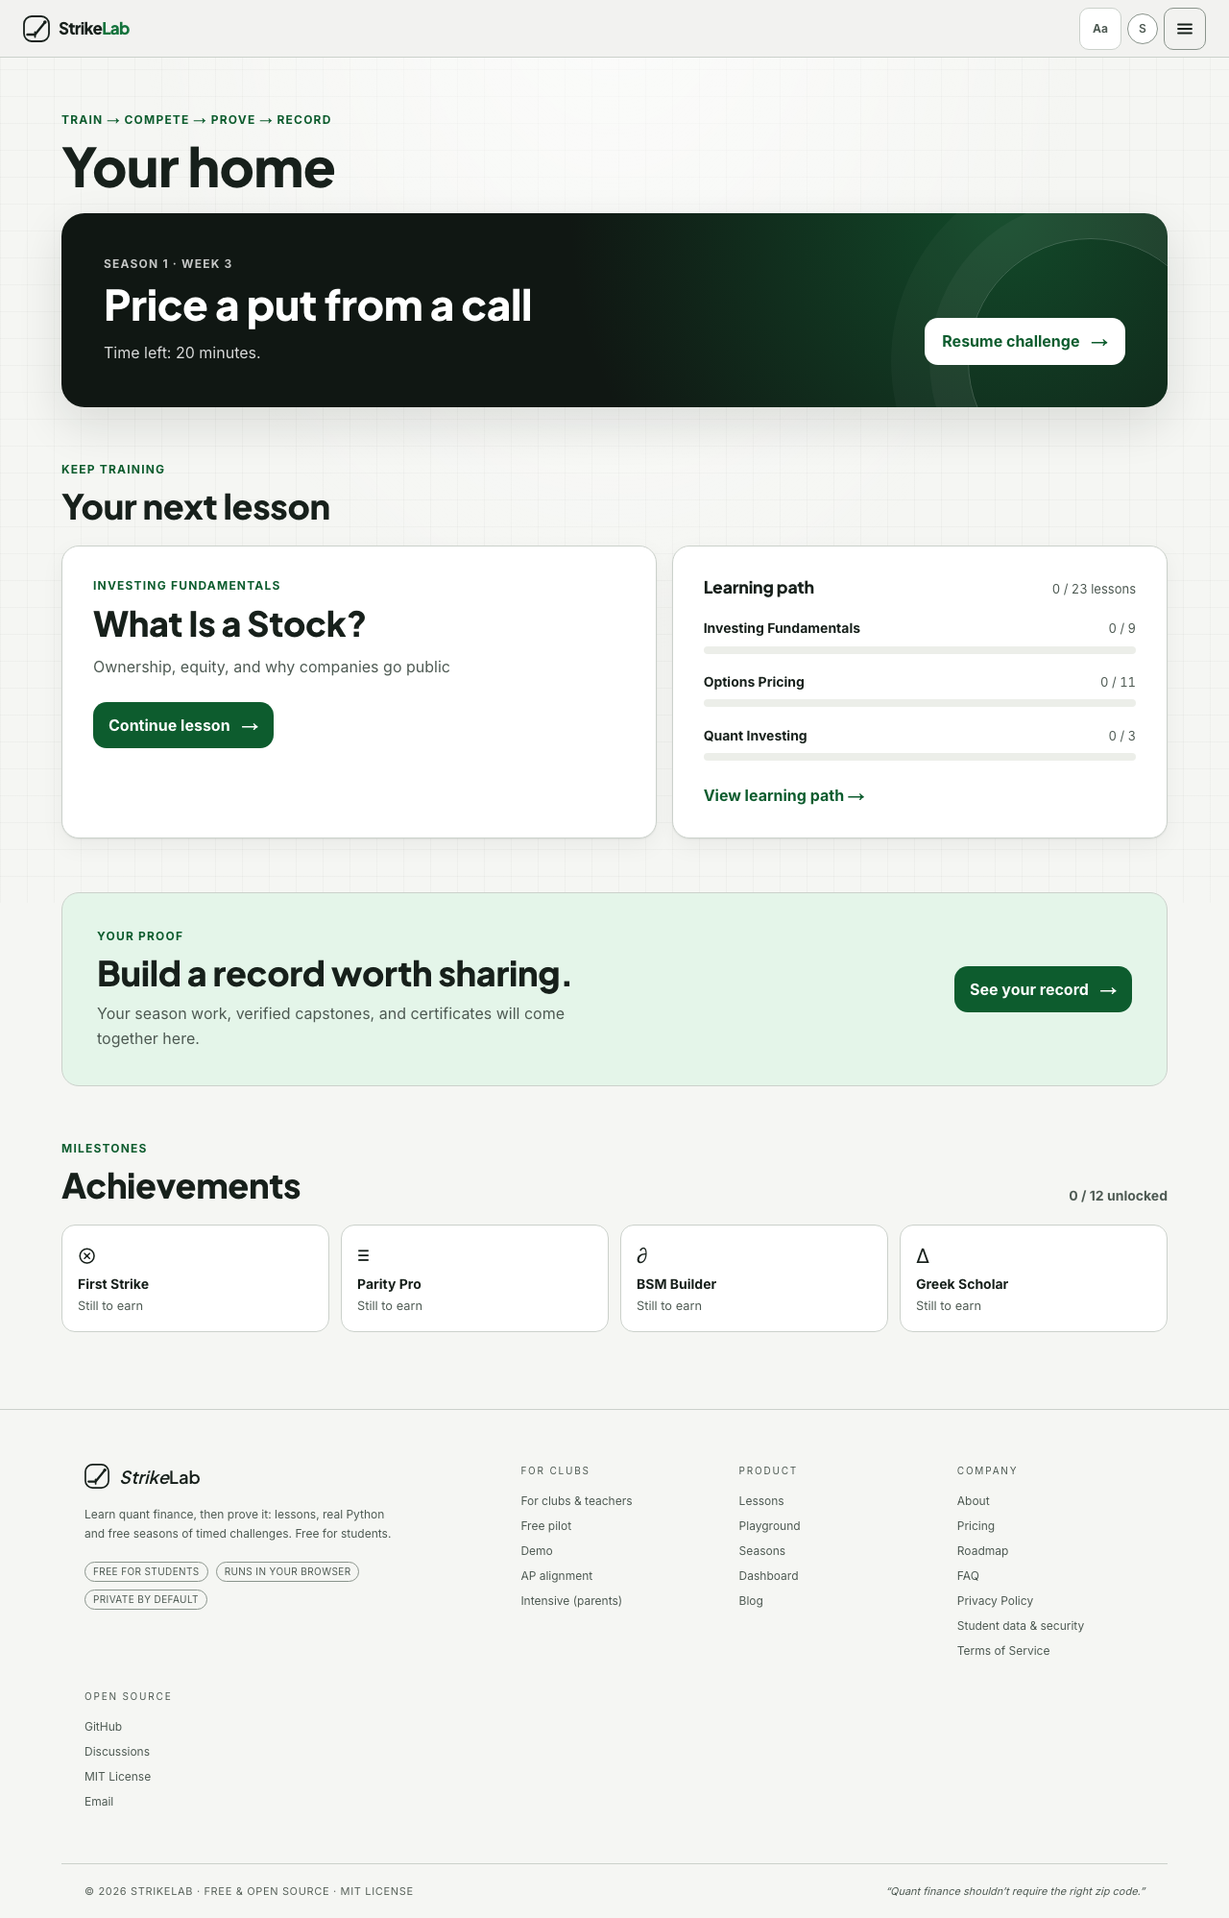
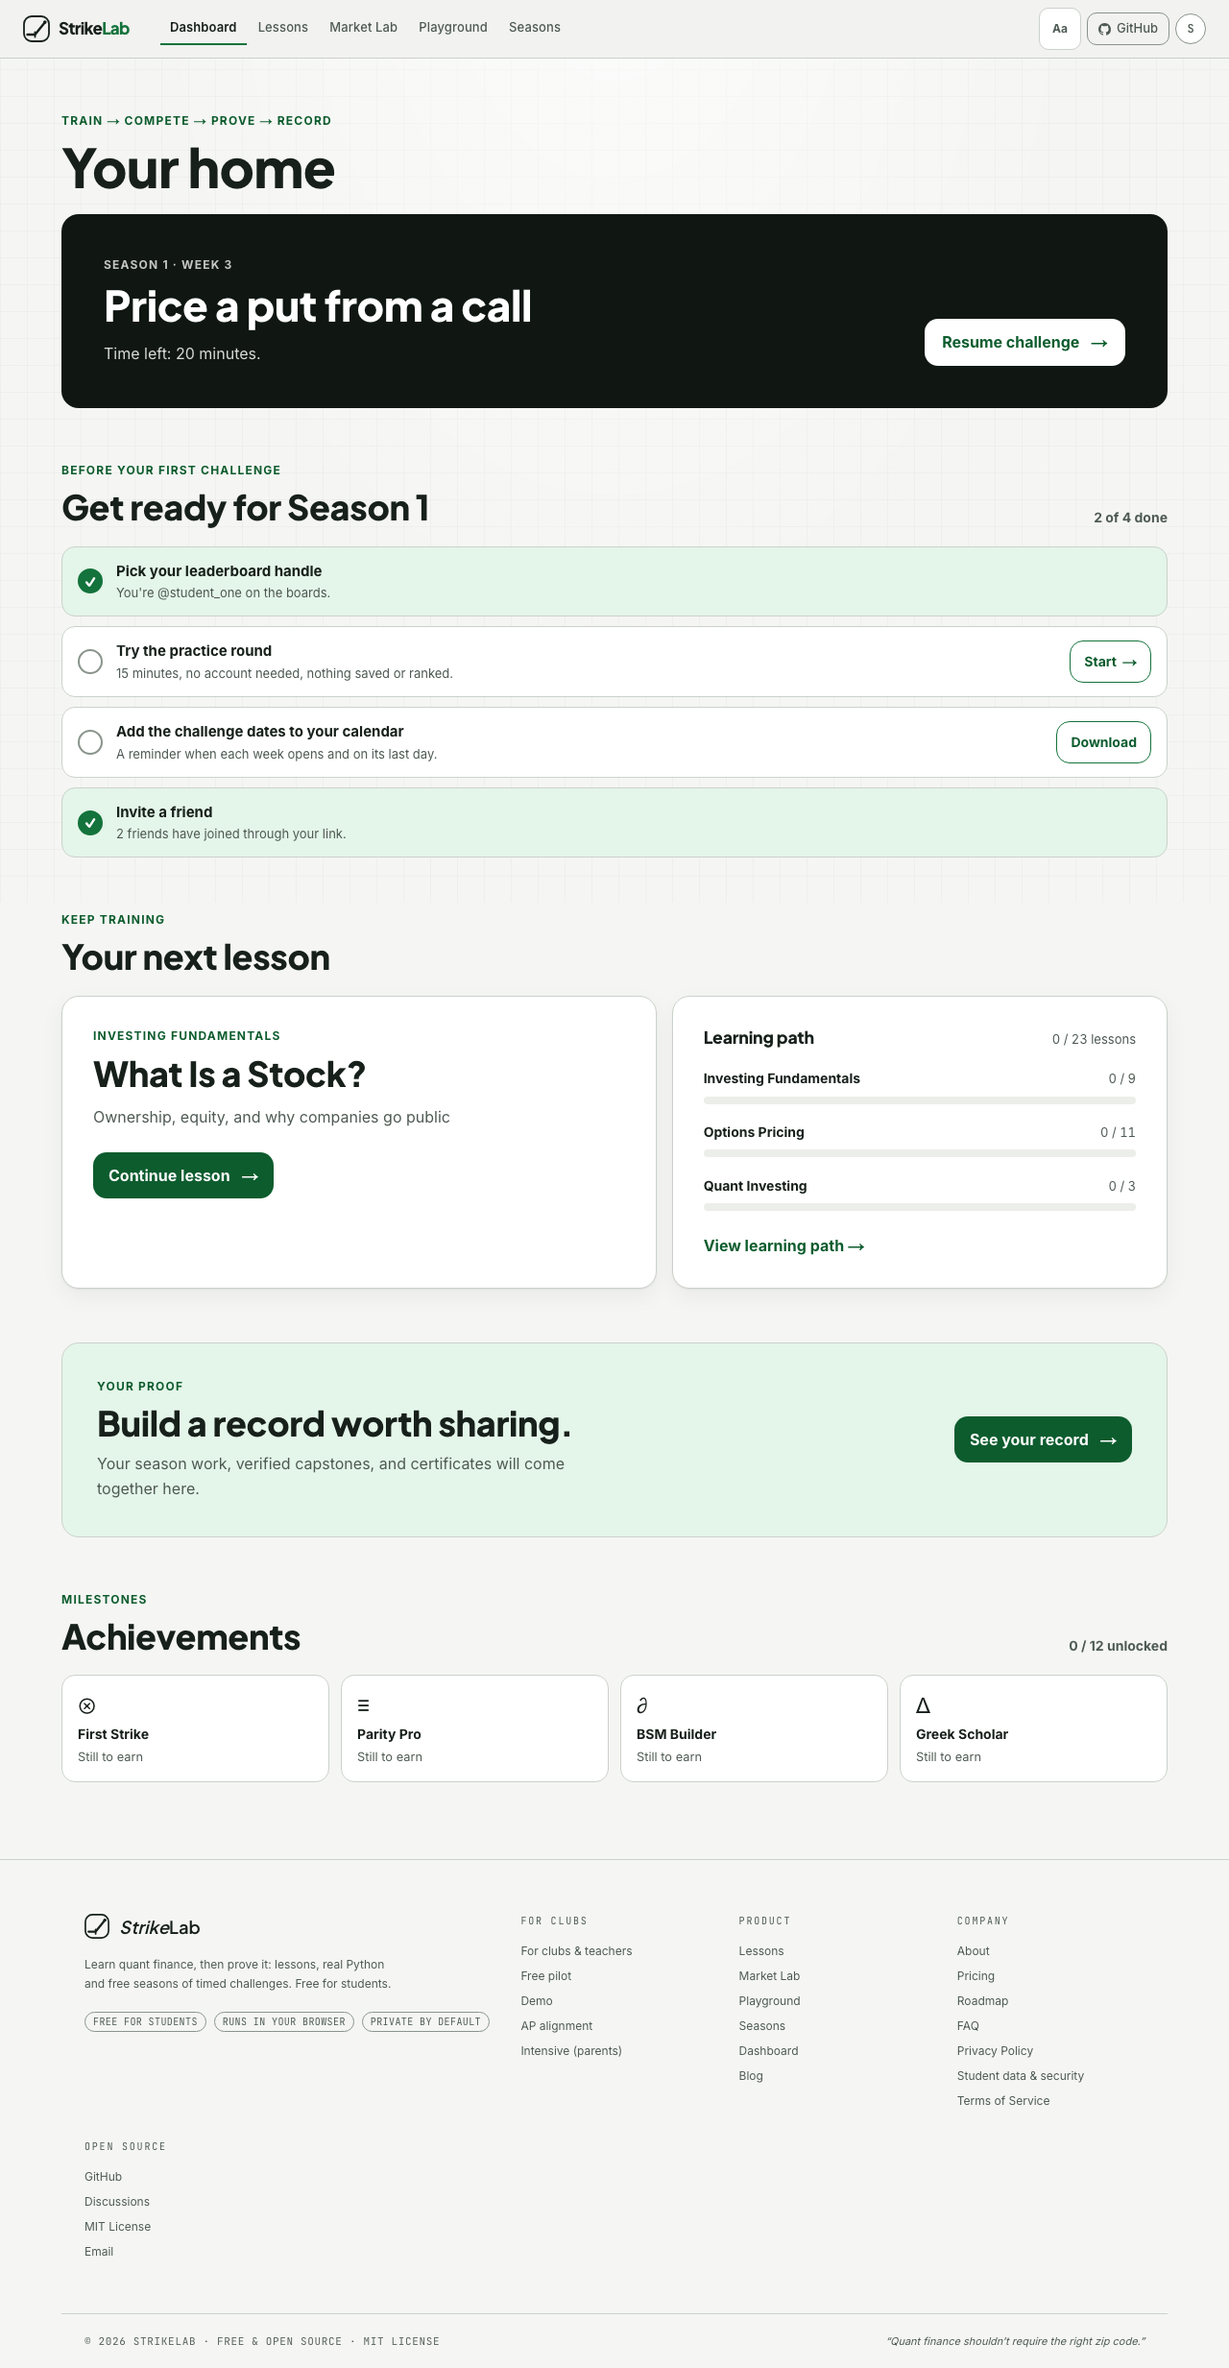
feat(seasons,ui): season FAQ, working mono font, flatter dashboard cards
- /seasons gets an 11-question FAQ (native <details>, works without JS)
  with FAQPage structured data. Each answer is a rule the code enforces:
  one attempt, server clock capped at the week's close, ranking by season
  total, tutor off during an attempt, explanation read by a person.
- Fix: globals.css redefined --font-mono as var(--font-mono, ...), a
  cycle that blanked it, so every var(--sl-font-code) label rendered in
  Inter. A unit test keeps the redefinition out.
- Student-home season card: flat dark block, no radial glow, rings or
  large shadow. Signed-out dashboard: neutral quick-action tiles, brand
  outline for unlocked achievements instead of an amber glow, flat
  "Up next" card. Pricing accent card drops its extra drop shadow.
- Plans updated: design-polish rows 1-3 and 7 done, rows 8-9 shipped in
  #83; remodel plan marks the season FAQ done.

diff --git a/src/lib/seasons/faq.ts b/src/lib/seasons/faq.ts
@@ -1,0 +1,57 @@
+/**
+ * Questions on /seasons. Every answer is a rule the code enforces, so check the
+ * source named beside it before changing the wording:
+ * - one attempt, server clock, deadline capped at the week's close:
+ *   start_attempt / submit_attempt in supabase/migrations/0024_seasons.sql
+ * - ranking by season total, then challenges solved: season_leaderboard (0024)
+ * - scoring: scripts/seasons/score-core.mjs (explanation is read by a person,
+ *   not added to the automatic score, so no points total is promised here)
+ * - what's allowed during an attempt: RULES in seasons/[challengeId]/AttemptClient.tsx
+ * - age: privacy page "Age"; cheating answer: docs/gtm/season-1-outreach.md
+ */
+export const SEASON_FAQ: { q: string; a: string }[] = [
+  {
+    q: "Is it free, and who can play?",
+    a: "Seasons are free. Anyone 13 or older can make an account and play. It's built for high school students, alone or with a club.",
+  },
+  {
+    q: "Do I need to know finance or Python already?",
+    a: "Some Python helps. Each challenge links the free lesson that teaches what it uses, and the 15-minute practice round shows you the format first.",
+  },
+  {
+    q: "When can I take each challenge, and how long do I get?",
+    a: "Each challenge stays open for its week. When you press start you get the time shown on its card. The clock runs on StrikeLab's server and doesn't pause, and it also stops when the week closes, so start with time to spare.",
+  },
+  {
+    q: "What can I use during a challenge?",
+    a: "Your own notes and the lessons. The AI tutor is off from the moment you start until you submit.",
+  },
+  {
+    q: "How many tries do I get?",
+    a: "One attempt per challenge. You can run your code against the sample check as often as you like, then submit once.",
+  },
+  {
+    q: "What if my browser crashes or I close the tab?",
+    a: "Your code saves on your device as you type, so reopening the challenge on the same device brings it back. The clock keeps running while you're away.",
+  },
+  {
+    q: "How is it scored?",
+    a: "After you submit, StrikeLab runs your code against hidden tests on your numbers. Correct answers count most, and finishing with time left adds a little. A person reads your explanation. Scores usually post within a day.",
+  },
+  {
+    q: "What if I miss a week?",
+    a: "You can still play the other weeks. The leaderboard ranks your total across the season, so a missed week counts as zero rather than knocking you out.",
+  },
+  {
+    q: "Does the practice round count?",
+    a: "No. It's a separate problem with its own numbers, checked in your browser and never saved or ranked.",
+  },
+  {
+    q: "Who sees my name?",
+    a: "Nobody. Leaderboards show the handle you choose, never your real name. Your record stays private until you decide to share it, and you can delete your account at any time.",
+  },
+  {
+    q: "Can people cheat?",
+    a: "Not easily. Everyone gets their own numbers, the server keeps the time, the AI tutor is off, and top placings are confirmed in a short live conversation before they appear on a record. That makes cheating hard, not impossible.",
+  },
+];

diff --git a/src/app/globals.css b/src/app/globals.css
@@ -93,7 +93,9 @@
 
   --font-sans:  var(--font-sans, system-ui, sans-serif);
   --font-serif: var(--font-serif, Georgia, serif);
-  --font-mono:  var(--font-mono, "Courier New", monospace);
+  /* No --font-mono here: next/font sets it on <html> (layout.tsx). Redefining
+     it as var(--font-mono, ...) is a cycle, which blanks it, and every
+     var(--sl-font-code) label then fell back to Inter. */
 }
 
 /* Marquee ticker */
@@ -2406,7 +2408,7 @@ h1, h2, h3, h4 {
 
 /* Featured next lesson */
 .db-feat {
-  background: linear-gradient(140deg, var(--card) 0%, var(--card2) 100%);
+  background: var(--card);
   border: 1px solid var(--line);
   border-radius: var(--r-xl);
   padding: 28px;
@@ -2415,15 +2417,6 @@ h1, h2, h3, h4 {
   box-shadow: 0 1px 2px rgba(28,25,23,0.05);
   position: relative;
   overflow: hidden;
-}
-.db-feat::before {
-  content: "";
-  position: absolute;
-  top: -50px; right: -50px;
-  width: 180px; height: 180px;
-  border-radius: 50%;
-  background: radial-gradient(circle, rgba(34,197,94,0.07), transparent);
-  pointer-events: none;
 }
 .db-feat-label {
   font-family: var(--font-mono);
@@ -2498,10 +2491,12 @@ h1, h2, h3, h4 {
 .db-action:hover { transform: translateY(-2px); box-shadow: 0 8px 20px -10px rgba(40,30,10,.22); }
 .db-action-icon {
   width: 44px; height: 44px;
-  border-radius: var(--r-md);
+  border-radius: var(--sl-radius-sm);
   display: grid; place-items: center;
-  font-family: var(--font-display), Georgia, serif;
-  font-size: 20px;
+  /* One neutral tile, not three tinted ones (design polish plan, row 2). */
+  border: 1px solid var(--sl-border);
+  color: var(--sl-brand-strong);
+  font: 500 20px/1 var(--sl-font-code);
   flex-shrink: 0;
 }
 .db-action-copy { flex: 1; }
@@ -2535,17 +2530,8 @@ h1, h2, h3, h4 {
   transition: all .2s;
   overflow: hidden;
 }
-.db-ach.unlocked {
-  border-color: rgba(251,191,36,0.4);
-  background: rgba(251,191,36,0.03);
-  box-shadow: 0 0 24px -8px rgba(251,191,36,0.25);
-}
-.db-ach-glow {
-  position: absolute;
-  inset: 0;
-  background: radial-gradient(circle at 50% 30%, rgba(251,191,36,0.08), transparent 70%);
-  pointer-events: none;
-}
+/* Unlocked reads as a crisp brand outline, not an amber glow (design polish plan, row 2). */
+.db-ach.unlocked { border-color: var(--sl-brand); }
 .db-ach-icon {
   font-size: 30px;
   line-height: 1;
@@ -2570,13 +2556,8 @@ h1, h2, h3, h4 {
 .db-ach-check {
   position: absolute;
   top: 10px; right: 10px;
-  width: 18px; height: 18px;
-  background: rgba(251,191,36,0.2);
-  border-radius: 50%;
-  display: grid; place-items: center;
-  font-size: 9px;
-  color: #f59e0b;
-  font-weight: 700;
+  font: 700 12px/1 var(--sl-font-code);
+  color: var(--sl-brand);
 }
 
 /* ── Class roster (dashboard/class/[id]) ── */

diff --git a/src/app/dashboard/DashboardClient.tsx b/src/app/dashboard/DashboardClient.tsx
@@ -437,12 +437,12 @@ export default function DashboardClient() {
         {/* Quick actions */}
         <div className="db-actions">
           {[
-            { href: "/lessons",    glyph: "≡", title: "Learning path",    sub: "Duolingo-style path view",  ic: "var(--grass)",   bg: "var(--grass-tint)" },
-            { href: "/playground", glyph: "∂", title: "Playground",       sub: "Live Black-Scholes sandbox", ic: "var(--sky)",     bg: "var(--sky-tint)" },
-            { href: "/roadmap",    glyph: "→", title: "Roadmap",          sub: "What's shipping next",       ic: "var(--coral)",   bg: "var(--coral-tint)" },
+            { href: "/lessons",    glyph: "≡", title: "Learning path",    sub: "Duolingo-style path view" },
+            { href: "/playground", glyph: "∂", title: "Playground",       sub: "Live Black-Scholes sandbox" },
+            { href: "/roadmap",    glyph: "→", title: "Roadmap",          sub: "What's shipping next" },
           ].map(q => (
             <Link key={q.href} href={q.href} className="db-action">
-              <span className="db-action-icon" style={{ background: q.bg, color: q.ic }}>{q.glyph}</span>
+              <span className="db-action-icon" aria-hidden="true">{q.glyph}</span>
               <div className="db-action-copy">
                 <div className="db-action-t">{q.title}</div>
                 <div className="db-action-s">{q.sub}</div>
@@ -463,7 +463,6 @@ export default function DashboardClient() {
           const unlocked = hydrated && isUnlocked(a, completed);
           return (
             <div key={a.id} className={`db-ach ${unlocked ? "unlocked" : ""}`} title={a.desc}>
-              {unlocked && <div className="db-ach-glow" />}
               <div className="db-ach-icon">{a.icon}</div>
               <div className="db-ach-name">{a.name}</div>
               <div className="db-ach-desc">{a.desc}</div>

diff --git a/src/app/seasons/page.tsx b/src/app/seasons/page.tsx
@@ -1,4 +1,7 @@
 import Link from "next/link";
+import Faq from "@/components/marketing/Faq";
+import JsonLd from "@/components/JsonLd";
+import { SEASON_FAQ } from "@/lib/seasons/faq";
 import styles from "@/components/marketing/marketing.module.css";
 import { pageMetadata } from "@/lib/seo";
 import { getSupabaseServer } from "@/lib/supabase/server";
@@ -25,6 +28,16 @@ export const metadata = pageMetadata({
 });
 
 export const dynamic = "force-dynamic";
+
+const FAQ_JSON_LD = {
+  "@context": "https://schema.org",
+  "@type": "FAQPage",
+  mainEntity: SEASON_FAQ.map((item) => ({
+    "@type": "Question",
+    name: item.q,
+    acceptedAnswer: { "@type": "Answer", text: item.a },
+  })),
+};
 
 interface SeasonRow { id: string; title: string; starts_on: string; ends_on: string }
 interface ChallengeRow { id: string; week: number; template_slug: string; opens_at: string; closes_at: string; time_limit_minutes: number }
@@ -105,6 +118,7 @@ export default async function SeasonsPage({ searchParams }: { searchParams: Prom
 
   return (
     <div className={styles.page}>
+      <JsonLd data={FAQ_JSON_LD} />
       <section className={styles.section}>
         <div className={styles.wrap}>
           {inviter && <p className={inviteStyles.banner}>@{inviter} invited you to play</p>}
@@ -252,6 +266,16 @@ export default async function SeasonsPage({ searchParams }: { searchParams: Prom
           </div>
         </section>
       )}
+
+      <section className={styles.section} aria-labelledby="season-faq">
+        <div className={styles.narrow}>
+          <h2 id="season-faq" className={styles.h2}>Questions</h2>
+          <Faq items={SEASON_FAQ} />
+          <p className={styles.fine}>
+            More about StrikeLab itself is in the <Link href="/faq" className={styles.textLink}>full FAQ</Link>.
+          </p>
+        </div>
+      </section>
     </div>
   );
 }

diff --git a/tests/season-workspace.spec.ts b/tests/season-workspace.spec.ts
@@ -174,3 +174,19 @@ test("the seasons page leads with the practice round and the opening", async ({ 
   await expect(page.getByRole("main").getByRole("link", { name: "Try a practice round" })).toHaveAttribute("href", "/seasons/practice");
   await expect(page.getByText(/Opens in \d+ days? ·|Live now|Season ended/)).toBeVisible();
 });
+
+test("the seasons page answers the common questions, without JavaScript too", async ({ browser }) => {
+  // The FAQ is native <details>, so it must open with scripts off.
+  const context = await browser.newContext({ javaScriptEnabled: false });
+  const page = await context.newPage();
+  await page.goto("/seasons");
+  const faq = page.getByRole("region", { name: "Questions" });
+  await expect(faq.getByText("How many tries do I get?")).toBeVisible();
+  // Keyboard, not click: with scripts off Playwright's click never sees the
+  // element as "stable". Enter on a <summary> is also the keyboard path.
+  await faq.getByText("How many tries do I get?").press("Enter");
+  await expect(faq.getByText(/One attempt per challenge/)).toBeVisible();
+  const ld = await page.locator('script[type="application/ld+json"]').allTextContents();
+  expect(ld.some((json) => json.includes('"FAQPage"') && json.includes("What if I miss a week?"))).toBe(true);
+  await context.close();
+});

diff --git a/src/app/dashboard/studentHome.module.css b/src/app/dashboard/studentHome.module.css
@@ -24,22 +24,10 @@
   gap: 2rem;
   overflow: hidden;
   padding: clamp(1.5rem, 4vw, 2.75rem);
-  background: radial-gradient(circle at 85% 0%, color-mix(in srgb, var(--sl-brand) 55%, transparent), transparent 45%), var(--sl-surface-inverse);
-  border-radius: var(--sl-radius-xl);
-  box-shadow: var(--sl-shadow-2);
+  /* Flat block, no glow or decorative rings (design polish plan, row 1). */
+  background: var(--sl-surface-inverse);
+  border-radius: var(--sl-radius-lg);
   color: var(--sl-surface);
-}
-.season::after {
-  content: "";
-  position: absolute;
-  right: -3rem;
-  bottom: -5rem;
-  width: 16rem;
-  aspect-ratio: 1;
-  border: 1px solid color-mix(in srgb, var(--sl-surface) 20%, transparent);
-  border-radius: 50%;
-  box-shadow: 0 0 0 2.5rem color-mix(in srgb, var(--sl-surface) 4%, transparent), 0 0 0 5rem color-mix(in srgb, var(--sl-surface) 3%, transparent);
-  pointer-events: none;
 }
 .seasonCopy, .seasonAction { position: relative; z-index: 1; }
 .seasonEyebrow { color: color-mix(in srgb, var(--sl-surface) 76%, transparent); }

diff --git a/src/lib/ui/fontVariables.test.ts b/src/lib/ui/fontVariables.test.ts
@@ -1,0 +1,15 @@
+import { readFileSync } from "node:fs";
+import { describe, expect, it } from "vitest";
+
+// next/font sets --font-mono on <html> (src/app/layout.tsx). A stylesheet that
+// redefines it as var(--font-mono, ...) creates a cycle, which the browser
+// resolves to nothing: every mono label (var(--sl-font-code)) then silently
+// rendered in Inter. Keep the self-hosted font the only definition.
+const sheets = ["../../app/globals.css", "../../styles/tokens.css", "../../styles/foundation.css"];
+
+describe("font variables", () => {
+  it.each(sheets)("%s does not redefine --font-mono", (path) => {
+    const css = readFileSync(new URL(path, import.meta.url), "utf8");
+    expect(css).not.toMatch(/--font-mono\s*:/);
+  });
+});

diff --git a/src/components/marketing/marketing.module.css b/src/components/marketing/marketing.module.css
@@ -57,7 +57,7 @@
   border-radius: var(--sl-radius-lg);
   background: var(--sl-surface);
 }
-.cardAccent { border-color: var(--sl-brand); box-shadow: 0 0 0 1px var(--sl-brand), var(--sl-shadow-1); }
+.cardAccent { border-color: var(--sl-brand); box-shadow: 0 0 0 1px var(--sl-brand); }
 .step {
   display: block;
   width: 2.25rem;

diff --git a/docs/superpowers/plans/2026-11-19-design-polish-plan.md b/docs/superpowers/plans/2026-11-19-design-polish-plan.md
@@ -1,6 +1,13 @@
 # Design polish work plan (Nov 19, 2026)
 
-**Status:** [PR #85](https://github.com/isaacgong0311-hash/strikelab/pull/85) open (mono kickers, flatter step numeral) — not yet merged. Pre-launch rehearsal walkthrough done; migrations `0025`/`0026` applied to production; rehearsal data cleaned up.
+**Status (Nov 20):** #85 and #86 merged. Rows 1, 2, 3 and 7 done on `feat/remodel-polish` (see "Done" below). Rows 8 and 9 were already shipped by R2 ([#83](https://github.com/isaacgong0311-hash/strikelab/pull/83)). Rows 4, 5 and 6 still open.
+
+**Done (Nov 20)**
+- **Mono was broken site-wide.** `globals.css` redefined `--font-mono` as `var(--font-mono, ...)` on `:root`. That cycle blanked the variable, so every `var(--sl-font-code)` label (including #85's kickers) fell back to Inter in the browser. The line is gone and `src/lib/ui/fontVariables.test.ts` keeps it out.
+- Row 1: the student-home season card is a flat dark block, with no radial glow, decorative rings or large shadow, and uses `--sl-radius-lg`.
+- Row 2: the student-home milestones were already plain glyphs. On the signed-out dashboard, unlocked achievements lose the amber glow for a brand outline, the three tinted quick-action tiles become one neutral outlined tile, and the "Up next" card loses its gradient and corner glow.
+- Row 3: no change needed. Track symbols are plain mono glyphs.
+- Row 7: the pricing accent card keeps its crisp 2px outline and drops the extra drop shadow only it had.
 
 **Why this plan exists:** Isaac said the site "still looks AI-generated." An audit against `refined-ui` (mono-only type, one accent color, flat hairline surfaces, no glow/gradient/glassmorphism, consistent radii) found the design system in `docs/ui-system.md` / `src/styles/tokens.css` is already fairly disciplined — single brand green, self-hosted fonts, no gradient text, no glow. The two real misses so far (kicker font, filled-circle step badges) are in #85. This plan is the backlog for finding the rest, one screen at a time, instead of guessing at a full redesign.
 

diff --git a/docs/superpowers/plans/2026-11-16-remodel-work-plan.md b/docs/superpowers/plans/2026-11-16-remodel-work-plan.md
@@ -12,7 +12,7 @@
 
 **Not done / not verified**
 - The three challenge cards and the "Train first" links are only visible with a season in the database, so they were not seen in a browser locally. The seeded-database browser tests that cover the signed-in `/seasons` states run in CI, not locally (Google Fonts are blocked on this network in dev mode).
-- No FAQ section on `/seasons` yet. No change to the explanation-points question: the scorer writes correctness (70) and speed (10) only, so no 100-point breakdown is shown anywhere.
+- ~~No FAQ section on `/seasons` yet.~~ Done Nov 20: 11 questions from `src/lib/seasons/faq.ts`, each tied to the rule in code it describes, with FAQPage structured data. No change to the explanation-points question: the scorer writes correctness (70) and speed (10) only, so no 100-point breakdown is shown anywhere.
 
 **Finding for Isaac: builds intermittently stop on a security advisory.** `next build` on Next 16.4.1 sometimes exits 1 with `SecurityFatalError` and passes when rerun (about every other build locally). The advisory is real: GHSA-mfr8-8qww-v76h (moderate, vulnerable `>=16.3.0 <=16.4.4`), about information disclosure when a `"use cache"` function is called through `unstable_cache()`. This repo uses neither. If the same stop happens in Vercel's build, a deploy would fail until retried. Decision needed: upgrade Next (a separate PR with its own testing), or leave it and retry builds. Nothing was upgraded here.
 
